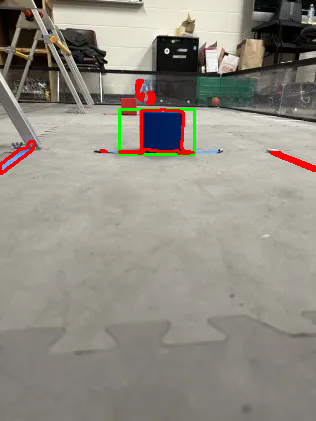
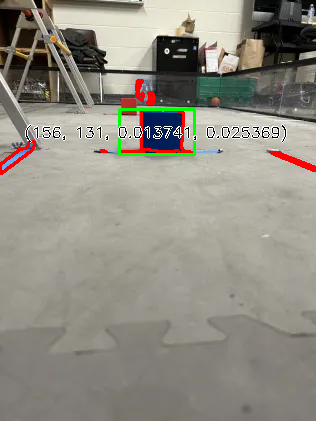
Text!

Changed region(s): [[0.3703, 0.247, 0.6266, 0.3705], [0.6551, 0.2779, 0.9114, 0.3397], [0.057, 0.2779, 0.3418, 0.3397]]

diff --git a/main/src/Main.java b/main/src/Main.java
@@ -25,6 +25,10 @@ public class Main {
     private static Mat hierarchy = new Mat();
     private static final Scalar GREEN_COLOR = new Scalar(0, 255, 0);
     private static final Scalar RED_COLOR = new Scalar(0, 0, 255);
+    private static final Scalar BLUE_COLOR = new Scalar(255, 0, 0);
+    private static final Scalar BLACK_COLOR = new Scalar(0, 0, 0);
+    private static final Scalar WHITE_COLOR = new Scalar(255, 255, 255);
+    private static final Scalar GREY_COLOR = new Scalar(100, 100, 100);
 
     public static void main(String[] args) {
 
@@ -48,7 +52,7 @@ public class Main {
             Mat input = Imgcodecs.imread(test.path);
 
             // src, threshold, gaussian kernel size, HSV ranges
-            List<VisionObject> objs = coloredObjectCoordinates(input, 0.0, 0.02, test.ranges);
+            List<VisionObject> objs = coloredObjectCoordinates(input, 0.01, 0.0, test.ranges);
             // src, gaussian kernel size
             Mat g = gaussian(input).clone();
             // src, ranges
@@ -61,13 +65,21 @@ public class Main {
             // src
             List<MatOfPoint> contours = contours(gm);
 
+            highlightContours(input, contours, RED_COLOR);
+
             System.out.println(String.format("Test: %s\n\t%s", test.path, test.ranges[0]));
             for (VisionObject obj : objs) {
                 highlightObject(input, obj, GREEN_COLOR);
 
+                String text = String.format("(%d, %d, %f, %f)", obj.x, obj.y, obj.pixelTotality, obj.boundingTotality);
+                Size textSize = Imgproc.getTextSize(text, Imgproc.FONT_HERSHEY_SIMPLEX, 0.5, 1, null);
+                int x = (int)Math.min(Math.max(textSize.width / 2, obj.x), input.width() - textSize.width / 2);
+                int y = (int)Math.min(Math.max(textSize.height / 2, obj.y), input.height() - textSize.height / 2);
+                simpleText(input, text, x, y, true, 0.5, WHITE_COLOR, 2);
+                simpleText(input, text, x, y, true, 0.5, BLACK_COLOR, 1);
+
                 System.out.println(String.format("\n\tObject: %s", obj));
             }
-            highlightContours(input, contours, RED_COLOR);
             output(outputDirectory + test.path.replace(directory, ""), 1, input);
             output(outputDirectory + test.path.replace(directory, ""), 2, g);
             output(outputDirectory + test.path.replace(directory, ""), 3, m);
@@ -174,8 +186,26 @@ public class Main {
     }
 
     public static void highlightObject(Mat src_dest, VisionObject obj, Scalar color) {
-        Point p1 = new Point(obj.x - obj.width / 2, obj.y - obj.height / 2);
-        Point p2 = new Point(p1.x + obj.width, p1.y + obj.height);
+        int x = obj.x - obj.width / 2;
+        int y = obj.y - obj.height / 2;
+        rectangle(
+            src_dest, 
+            x, 
+            y, 
+            x + obj.width, 
+            y + obj.height, 
+            color, 
+            2
+        );
+    }
+
+    public static void highlightContours(Mat src_dest, List<MatOfPoint> contours, Scalar color) {
+        Imgproc.drawContours(src_dest, contours, -1, color, 2);
+    }
+
+    public static void rectangle(Mat src_dest, int x1, int y1, int x2, int y2, Scalar color, int thickness) {
+        Point p1 = new Point(x1, y1);
+        Point p2 = new Point(x2, y2);
         Imgproc.rectangle(
             src_dest,
             p1, 
@@ -185,8 +215,22 @@ public class Main {
         );
     }
 
-    public static void highlightContours(Mat src_dest, List<MatOfPoint> contours, Scalar color) {
-        Imgproc.drawContours(src_dest, contours, -1, color, 2);
+    public static void simpleText(
+        Mat src_dest, 
+        String text, 
+        int x, 
+        int y, 
+        boolean center, 
+        double scale, 
+        Scalar color, 
+        int thickness
+    ) {
+        if (center) {
+            Size textSize = Imgproc.getTextSize(text, Imgproc.FONT_HERSHEY_SIMPLEX, scale, 1, null);
+            x -= textSize.width / 2;
+            y += textSize.height / 2;
+        }
+        Imgproc.putText(src_dest, text, new Point(x, y), Imgproc.FONT_HERSHEY_SIMPLEX, scale, color, thickness);
     }
 
     public static void output(String name, int id, Mat input) {
